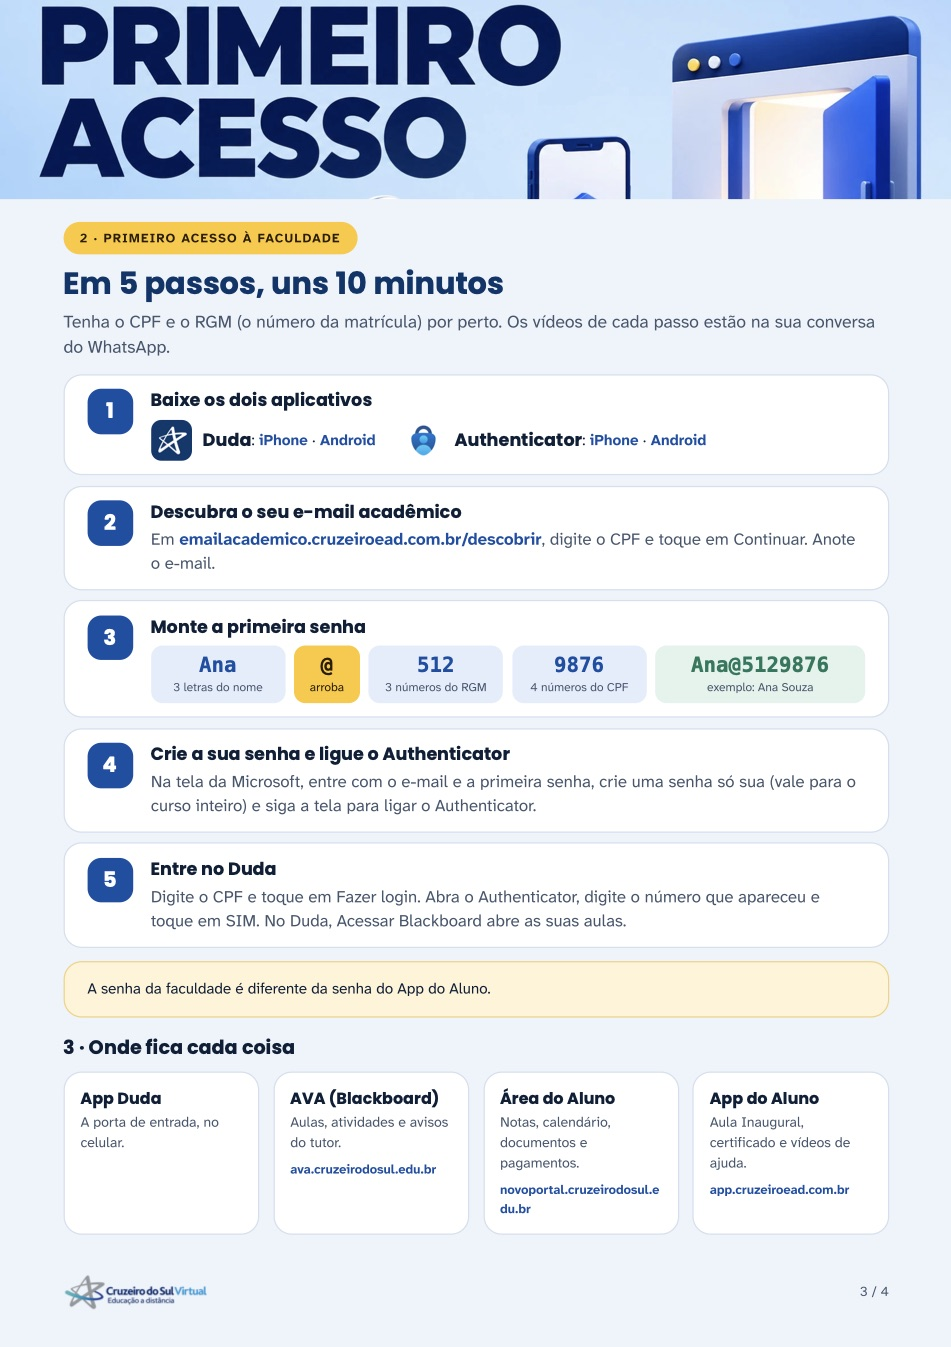
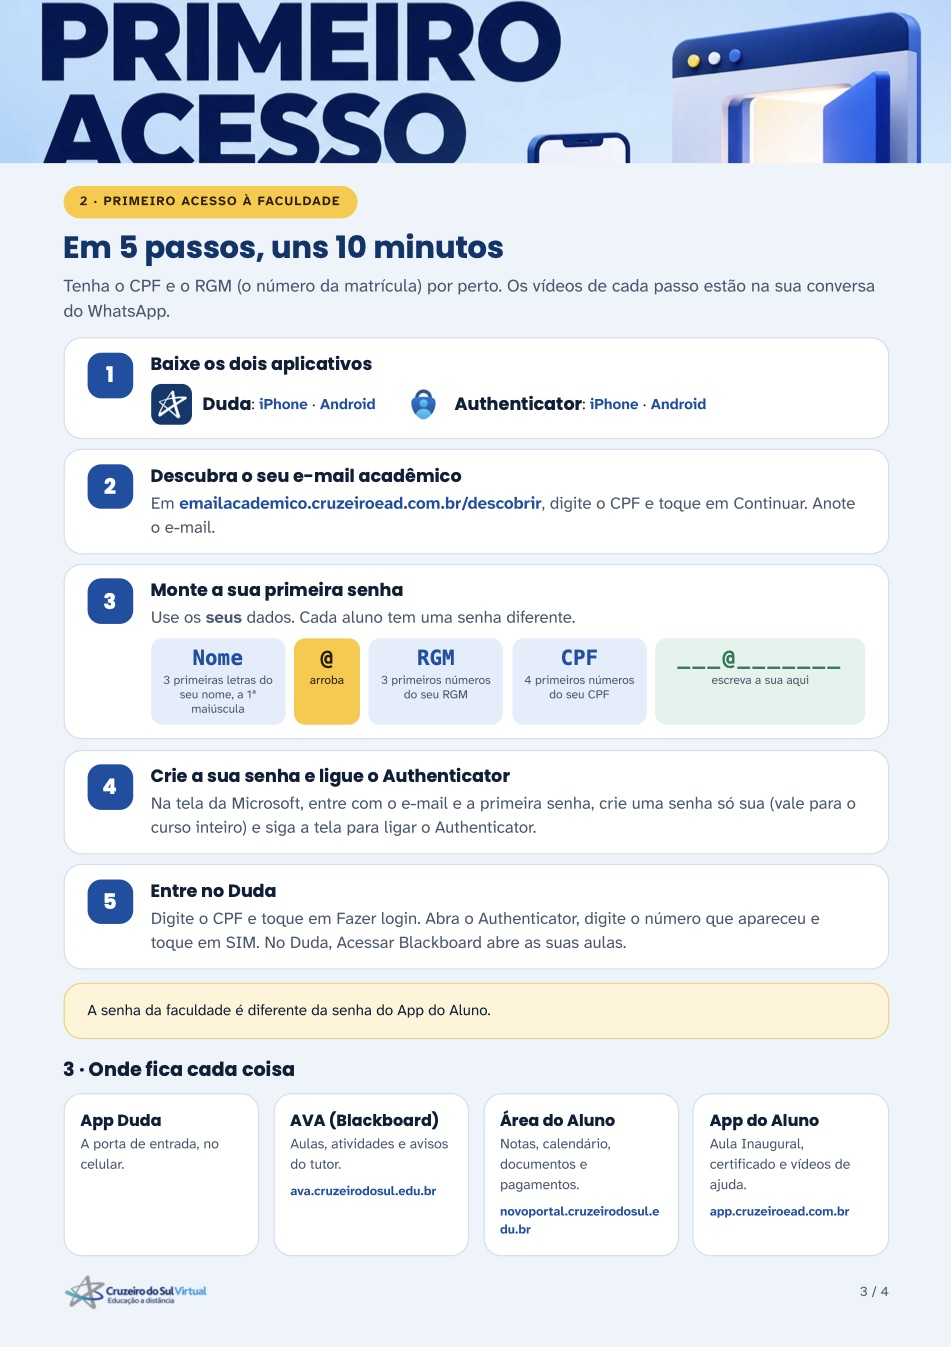
Protótipo da régua do comercial: "Agora não" com 2 imagens e senha sem exemplo
O caminho "Agora não" manda só mensalidade e polo; o primeiro acesso fica
com os vídeos e o guia. As páginas do guia trazem a primeira senha como
fórmula com os dados do próprio aluno, sem a senha de exemplo.

diff --git a/public/prototipos/regua-comercial/index.html b/public/prototipos/regua-comercial/index.html
@@ -139,7 +139,7 @@ button:focus-visible,.bubble img:focus-visible,.doc:focus-visible{outline:3px so
 @media (max-width:520px){.regras-curtas li{grid-template-columns:minmax(0,1fr);gap:4px}.regras-curtas .chip{justify-self:start}}
 h2.sec{font-size:20px;color:var(--fg);display:flex;flex-wrap:wrap;align-items:baseline;gap:4px 10px;margin:0 0 10px}
 h2.sec small{font:400 14px/1.3 var(--body);color:var(--muted)}
-.artes{display:grid;grid-template-columns:repeat(3,minmax(0,1fr));gap:12px}
+.artes{display:grid;grid-template-columns:repeat(2,minmax(0,1fr));gap:12px;max-width:560px}
 @media (max-width:620px){.artes{grid-template-columns:repeat(2,minmax(0,1fr))}}
 .peca{border:0;padding:0;background:none;cursor:zoom-in;text-align:left;color:var(--fg);display:grid;gap:6px;min-width:0}
 .peca img{display:block;width:100%;border-radius:10px;border:1px solid var(--line);aspect-ratio:4/5;object-fit:cover;background:var(--surface)}
@@ -203,7 +203,7 @@ h2.sec small{font:400 14px/1.3 var(--body);color:var(--muted)}
       </ul>
 
       <section aria-labelledby="t-artes">
-        <h2 class="sec" id="t-artes">5 imagens <small>o essencial para entrar</small></h2>
+        <h2 class="sec" id="t-artes">2 imagens <small>as dúvidas mais comuns</small></h2>
         <div class="artes" id="artes"></div>
       </section>
       <section aria-labelledby="t-videos">
@@ -228,8 +228,8 @@ h2.sec small{font:400 14px/1.3 var(--body);color:var(--muted)}
   'use strict';
   var NUM = 'https://wa.me/5511915184535';
   var PDF = ['midia/guia-1.jpg','midia/guia-2.jpg','midia/guia-3.jpg','midia/guia-4.jpg'];
-  var ARTES = ['midia/arte-1.jpg','midia/arte-2.jpg','midia/arte-3.jpg','midia/arte-4.jpg','midia/arte-5.jpg'];
-  var NOMES_ARTE = ['Aplicativos','Primeira senha','Entrar e achar as aulas','Mensalidade','Seu polo'];
+  var ARTES = ['midia/arte-4.jpg','midia/arte-5.jpg'];
+  var NOMES_ARTE = ['Mensalidade','Seu polo'];
 
   // A régua, passo a passo (igual à automação de teste do CRM).
   var R = {
@@ -239,13 +239,10 @@ h2.sec small{font:400 14px/1.3 var(--body);color:var(--muted)}
     ajuda: { tipo:'texto', texto:'Combinado! 🙌 Já estou chamando o Time de Acolhimento. Em instantes uma pessoa fala com você aqui mesmo.', prox:'fimAjuda',
       nota:{t:'Quero ajuda agora', c:'acao', l:'Vai para o Acolhimento', p:'A conversa passa para uma pessoa do Time de Acolhimento, que faz o primeiro acesso junto com o aluno.'} },
     fimAjuda: { tipo:'fim', aviso:'Daqui em diante, uma pessoa do Acolhimento conversa com o aluno. Toque em Recomeçar para ver o caminho "Agora não".' },
-    m1: { tipo:'texto', texto:'Tudo bem! 😊 Separei o essencial para você começar:', prox:'a1',
+    m1: { tipo:'texto', texto:'Tudo bem! 😊 Antes de tudo, duas coisas importantes:', prox:'a4',
       nota:{t:'Agora não', c:'livre', l:'Mensagem comum', p:'O aluno prefere fazer sozinho. A janela de 24 h está aberta pelo toque, então o resto sai sem template.'} },
-    a1: { tipo:'imagem', src:ARTES[0], prox:'a2', nota:{t:'5 imagens com o essencial', c:'livre', l:'Mensagem comum', p:'Aplicativos, primeira senha, entrar, mensalidade e polo. Sem legenda, menos a da senha, que leva o link do e-mail acadêmico.'} },
-    a2: { tipo:'imagem', src:ARTES[1], legenda:'Descubra o seu e-mail: emailacademico.cruzeiroead.com.br/descobrir', prox:'a3' },
-    a3: { tipo:'imagem', src:ARTES[2], prox:'a4' },
-    a4: { tipo:'imagem', src:ARTES[3], prox:'a5' },
-    a5: { tipo:'imagem', src:ARTES[4], prox:'menu' },
+    a4: { tipo:'imagem', src:ARTES[0], prox:'a5', nota:{t:'2 imagens', c:'livre', l:'Mensagem comum', p:'Mensalidade e polo, as dúvidas mais comuns. O primeiro acesso vem nos vídeos e no guia.'} },
+    a5: { tipo:'imagem', src:ARTES[1], prox:'menu' },
     menu: { tipo:'botoes', texto:'Quer ver o primeiro acesso em vídeo, passo a passo? São 5 vídeos curtos.', botoes:[['Ver os vídeos','v1'],['Já consegui entrar','ok'],['Preciso de ajuda','ajuda2']],
       nota:{t:'Menu', c:'livre', l:'Mensagem com botões', p:'O aluno escolhe: ver os vídeos, dizer que já entrou ou pedir ajuda.'} },
     ok: { tipo:'texto', texto:'Que ótimo! 🎉 Agora entre no App do Aluno e faça a Aula Inaugural: ela vale certificado de 4 horas. Deixo aqui o seu guia para guardar 👇', prox:'pdf',
